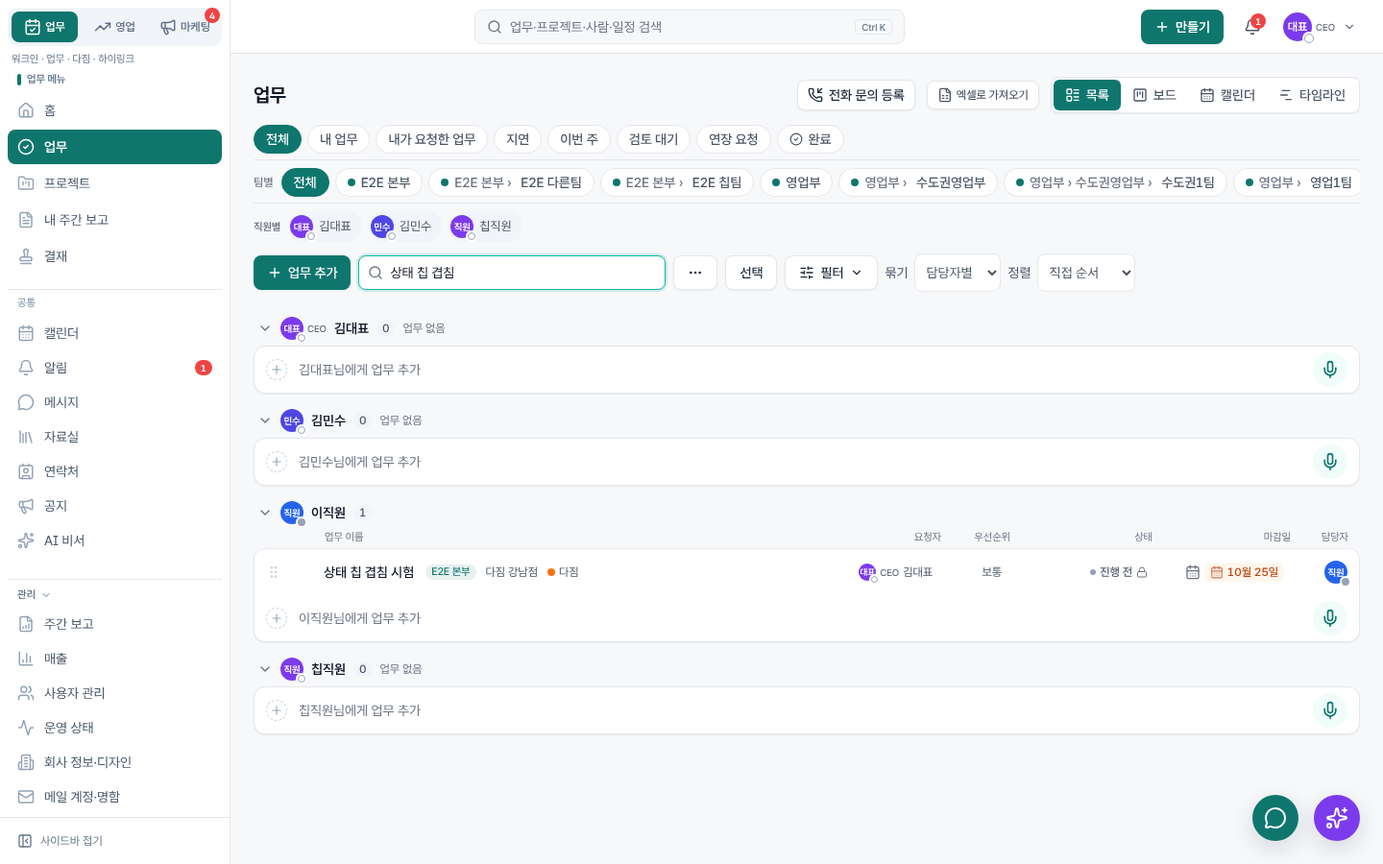
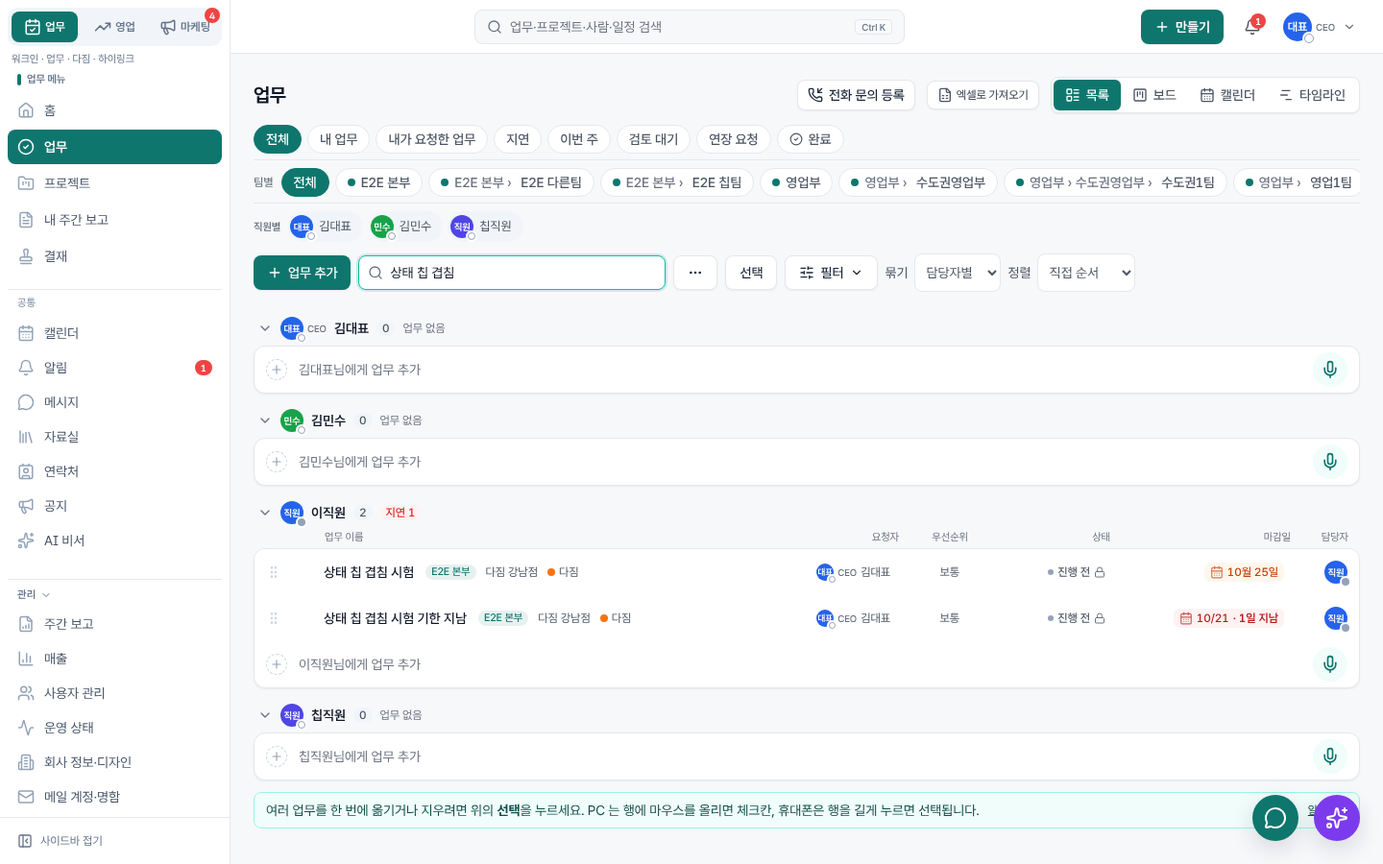
[배포확인요청] #422 앱 하단 탭 확정·더보기 → 프로필 버튼 + #427 기한 지남 줄 넘침 + 말풍선 기본 끔
- 업무 공간 하단 탭 = 홈·업무·캘린더·메시지·결재, '더보기' 탭 없음(영업·마케팅 4칸)
- 오른쪽 위 프로필 버튼 시트: 프로필·공간 전환·업무 메뉴(내 주간 보고만)·하단 탭과 겹치지 않는 메뉴·설정,
  '만들기' 줄 제거(업무 등록은 업무 화면 [업무 추가], 음성은 등록 시트 안 [음성])
- 기한 지난 줄 마감 칸 넘침: 달력 아이콘 중복 제거·짧은 날짜(10/21 · 1일 지남)·xl 이상 칸 폭 136/176,
  1024~1279 는 기존 폭('n일 지남' 글자만 숨김)
- 말풍선 버튼 기본 끔(하단 탭에 메시지, AI 버튼과 겹침)
- E2E 145/145(기한 지남 줄 1280·1440·1920 단언, 하단 탭·프로필 시트 단언)

Claude-Session: https://claude.ai/code/session_016D6QaBbBuSZXAeHKp3DqaZ

diff --git a/src/components/AppShell.tsx b/src/components/AppShell.tsx
@@ -17,12 +17,12 @@ import { usePathname, useRouter } from 'next/navigation';
 import { useEffect, useRef, useState, type ReactNode } from 'react';
 import {
   Activity, BarChart3, Bell, CalendarClock, CalendarHeart, FileBarChart, FileText, Gauge, CalendarDays, CalendarPlus, ChevronDown, CircleCheck, FolderKanban, FolderPlus, House, Keyboard, LayoutTemplate,
-  Building2, HelpCircle, ListTodo, Library, LogOut, Mic, Sparkles, Network, QrCode, Stamp, Workflow, PanelLeftClose, PanelLeftOpen, Plus, ScrollText, Search, Settings, SquarePen, Star, Users, X,
+  Building2, HelpCircle, ListTodo, Library, LogOut, Sparkles, Network, QrCode, Stamp, Workflow, PanelLeftClose, PanelLeftOpen, Plus, ScrollText, Search, Settings, SquarePen, Star, Users, X,
   type LucideIcon,
   MessageCircle, Mail,
   TrendingUp, Megaphone, ChevronsUpDown, Check, CalendarCheck, SlidersHorizontal as SlidersIcon, Phone, ClipboardCheck, Link2,
-  History, Rocket, Ellipsis, Target, Briefcase,
-MapPin, Contact, Globe, } from 'lucide-react';
+  History, Rocket, Target, Briefcase,
+Contact, Globe, } from 'lucide-react';
 import { SessionCtx, canManage, isAdminRole, type Sess } from './session';
 import { SPACE_META, spaceOfPath, type SpaceKey } from './spaceMeta';
 import { api, flushOutbox, useOutboxCount, broadcastRefresh, useApi } from './client';
@@ -31,7 +31,7 @@ import { ROLE_LABEL } from '@/lib/types';
 import { clearReminders, enableNativePush, initNative } from './native';
 import { QuickAddTask } from './QuickAddTask';
 import { CommandPalette } from './CommandPalette';
-import { VoiceAddTask, openVoiceAdd } from './VoiceAddTask';
+import { VoiceAddTask } from './VoiceAddTask';
 
 type NavItem = { href: string; label: string; icon: LucideIcon; group?: string };
 /** 워크인(WORKIN_V2) 사이드바: 홈 · 업무(본사 전체) · 프로젝트 · 캘린더 · 알림 + 관리 묶음. 숨긴 화면(현장 신고 QR·자동화·현장 비교 등)은 코드·주소는 남겨 둔다 */
@@ -220,7 +220,13 @@ export function AppShell({ session, children }: { session: Sess; children: React
       ? [{ href: '/s/marketing', label: '홈', icon: Megaphone }, { href: '/s/marketing/approvals', label: '승인 대기', icon: ClipboardCheck, badge: spaceInfo.data?.summary.marketing?.badge ?? 0 },
         { href: '/s/marketing/calendar', label: '캘린더', icon: CalendarDays }, { href: '/s/marketing/ads', label: '광고 성과', icon: BarChart3 }]
       // 대표 핫픽스 10/20 19:10(앱 캡처): 업무 공간 하단 = 홈 · 업무 · 캘린더 · 결재 · 더보기 — 프로젝트는 더보기 › 업무 메뉴로. 탭 구성 변경은 앞으로 대표 확인 뒤에만
-      : v3 ? [byHref('/'), byHref('/tasks'), byHref('/calendar'), { ...byHref('/approvals'), badge: approvalsTodo }] : [NAV[0], NAV[1], NAV[3], { ...NAV[4], badge: chatUnread }];
+      // 대표 확정 10/22(#422): 업무 공간 하단 = 홈 · 업무 · 캘린더 · 메시지 · 결재, 더보기 없음 — 나머지 메뉴는 오른쪽 위 프로필 버튼 시트로
+      : v3 ? [byHref('/'), byHref('/tasks'), byHref('/calendar'), { ...byHref('/messages'), badge: chatUnread }, { ...byHref('/approvals'), badge: approvalsTodo }] : [NAV[0], NAV[1], NAV[3], { ...NAV[4], badge: chatUnread }];
+  const tabHrefs = new Set(mobileTabs.map((n) => n.href.split('?')[0]));
+  // 프로필 시트: 하단 탭·머리줄(알림·AI)과 겹치는 메뉴는 빼고, 남은 공통 메뉴 + 설정만(#422 b·d)
+  const sheetLinks: NavItem[] = [...commonV3.filter((n) => !tabHrefs.has(n.href.split('?')[0]) && n.href !== '/notifications' && !n.href.startsWith('/assistant')), { href: '/settings', label: '설정·알림', icon: Settings }];
+  // #422 c: 업무 공간 메뉴 칸은 '내 주간 보고'(+ 매출 권한)만 — 홈·업무·결재는 하단 탭, 프로젝트는 업무 화면 안에서
+  const sheetSpaceMenu: NavItem[] = (v3 ? spaceMenuV3 : spaceNav).filter((n) => !tabHrefs.has(n.href.split('?')[0]) && !(space === 'work' && n.href === '/projects'));
   const active = (href: string) => {
     const [p, q] = href.split('?');
     if (p === '/') return path === '/';
@@ -423,7 +429,7 @@ export function AppShell({ session, children }: { session: Sess; children: React
                 <Link href="/notifications" className="relative inline-flex size-11 items-center justify-center rounded-full text-ink-2 active:bg-slate-100" aria-label={`알림${unread ? ` ${unread}건` : ''}`} data-testid="mobile-bell">
                   <Bell className="size-[22px]" />{unread > 0 && <span className="absolute right-1.5 top-1.5 min-w-4 rounded-full bg-red-500 px-1 text-center text-[10px] font-semibold leading-4 text-white">{unread > 99 ? '99+' : unread}</span>}
                 </Link>
-                <button onClick={() => setMore(true)} className="inline-flex size-11 items-center justify-center rounded-full active:bg-slate-100" aria-label="메뉴 더보기"><Avatar id={session.user.id} name={session.user.name} size={30} /></button>
+                <button onClick={() => setMore(true)} className="relative inline-flex size-11 items-center justify-center rounded-full active:bg-slate-100" aria-label="프로필·메뉴" data-testid="profile-menu"><Avatar id={session.user.id} name={session.user.name} size={30} /></button>
               </span>
             </div>
           </header>
@@ -476,12 +482,8 @@ export function AppShell({ session, children }: { session: Sess; children: React
         )}
         {/* 하단 탭 (모바일): 홈 · 업무 · [+] · 캘린더 · 메시지 (+ 정중앙) */}
         {/* 대표 결정(10/19): 가운데 + 버튼 없이 공간마다 같은 크기 5칸 — 4개 메뉴 + 더보기(그 공간 나머지 메뉴·공통·공간 전환·만들기) */}
-        <nav className="fixed bottom-0 left-0 right-0 z-40 grid grid-cols-5 border-t border-line bg-white/95 pb-[var(--sab)] backdrop-blur sm:hidden [[data-chat-room]_&]:hidden" aria-label="하단 메뉴" data-testid="mobile-tabs" data-space={tabSpace}>
+        <nav className={cx('fixed bottom-0 left-0 right-0 z-40 grid border-t border-line bg-white/95 pb-[var(--sab)] backdrop-blur sm:hidden [[data-chat-room]_&]:hidden', mobileTabs.length >= 5 ? 'grid-cols-5' : 'grid-cols-4')} aria-label="하단 메뉴" data-testid="mobile-tabs" data-space={tabSpace}>
           {mobileTabs.map((n) => <TabLink key={n.href} n={n} on={active(n.href)} badge={n.badge} />)}
-          <button type="button" onClick={() => setMore(true)} aria-label="더보기" data-testid="tab-more" className={cx('relative flex min-h-[52px] flex-col items-center justify-center gap-0.5 py-1.5 text-xs', more ? 'font-bold text-brand-700' : 'font-medium text-ink-2')}>
-            <Ellipsis className="size-6" strokeWidth={more ? 2.4 : 1.8} aria-hidden />더보기
-            {v3 && chatUnread + unread > 0 && <span className="absolute right-[18%] top-1 min-w-[18px] rounded-full bg-red-500 px-1 text-center text-[10px] font-bold leading-[18px] text-white" data-testid="tab-more-badge">{chatUnread + unread > 99 ? '99+' : chatUnread + unread}</span>}
-          </button>
         </nav>
         {/* 대표 10/20 16:20 (#106) 휴대폰 오른쪽 아래 말풍선 — 최근 대화방 바로·안 읽은 수·길게 누르면 AI 비서, 대화방·키보드·알람 띠에서 숨김 */}
         <ChatBubble unread={chatUnread} ai={!!session.features.ai} alarm={alarms.length > 0} />
@@ -515,23 +517,7 @@ export function AppShell({ session, children }: { session: Sess; children: React
                 <div className="min-w-0 flex-1"><div className="flex items-center gap-1.5 font-semibold">{session.user.name}<RoleBadge role={session.user.role} /></div><div className="truncate text-xs text-ink-2">{ROLE_LABEL[session.user.role]} · {session.user.email}</div></div>
                 <button onClick={() => setMore(false)} className="rounded-full p-2 text-ink-3" aria-label="닫기"><X className="size-5" /></button>
               </div>
-              {/* 대표 결정(10/19): + 버튼 대신 더보기 › 만들기(공간 맥락) */}
-              <div className="border-t border-line px-1 pb-1 pt-2" role="menu" aria-label="만들기" data-testid="more-create">
-                <div className="px-2 text-xs text-ink-3">만들기</div>
-                {/* 대표 지적(10/19): '미팅 일정 만들기'가 잘 안 보임 — 만들기 맨 위 */}
-                <Link href="/calendar?meeting=1" onClick={() => setMore(false)} role="menuitem" className="mt-1 flex min-h-[48px] items-center gap-2 rounded-xl border border-rose-200 bg-rose-50 px-3 text-sm font-semibold text-rose-800" data-testid="more-new-meeting"><MapPin className="size-5" />미팅 일정 만들기</Link>
-                {tabSpace === 'sales' ? (
-                  <Link href="/s/sales/leads?new=1" onClick={() => setMore(false)} role="menuitem" className="mt-1 flex min-h-[48px] items-center gap-2 rounded-xl bg-brand-600 px-3 text-sm font-semibold text-white" data-testid="more-new-lead"><Plus className="size-5" />새 리드</Link>
-                ) : tabSpace === 'marketing' ? (
-                  <Link href="/s/marketing/approvals?new=1" onClick={() => setMore(false)} role="menuitem" className="mt-1 flex min-h-[48px] items-center gap-2 rounded-xl bg-brand-600 px-3 text-sm font-semibold text-white" data-testid="more-new-content"><Plus className="size-5" />새 콘텐츠</Link>
-                ) : (
-                  <div className="mt-1 grid grid-cols-3 gap-1.5">
-                    <button role="menuitem" onClick={() => { setMore(false); openVoiceAdd(); }} aria-label="음성 등록" className="flex min-h-[64px] flex-col items-center justify-center gap-1 rounded-xl bg-brand-600 text-sm font-semibold text-white active:bg-brand-700" data-testid="fab-voice"><Mic className="size-5" />음성</button>
-                    <button role="menuitem" onClick={() => { setMore(false); setQuick(true); }} aria-label="업무 등록" className="flex min-h-[64px] flex-col items-center justify-center gap-1 rounded-xl border border-line text-sm font-semibold active:bg-slate-50"><SquarePen className="size-5 text-brand-600" />업무</button>
-                    <button role="menuitem" onClick={() => { setMore(false); router.push('/calendar?quick=1'); }} aria-label="일정 등록" className="flex min-h-[64px] flex-col items-center justify-center gap-1 rounded-xl border border-line text-sm font-semibold active:bg-slate-50"><CalendarPlus className="size-5 text-green-600" />일정</button>
-                  </div>
-                )}
-              </div>
+              {/* 대표 확정 10/22(#422 b): 하단 '더보기'를 없애고 이 시트는 오른쪽 위 프로필 버튼으로 연다 — '만들기' 줄은 뺌(업무 화면 [업무 추가]·캘린더·리드 화면에 있음, 음성은 업무 등록 창 안 [음성]) */}
               {spaces.length > 1 && (
                 <div className="space-y-1 border-t border-line px-1 pb-1 pt-2" data-testid="mobile-spaces">
                   <div className="px-2 text-xs text-ink-3">공간 전환</div>
@@ -546,22 +532,20 @@ export function AppShell({ session, children }: { session: Sess; children: React
                   ))}
                 </div>
               )}
-              {v3 && (
-                <div className="border-t border-line px-1 pb-1 pt-2" data-testid="mobile-common">
-                  <div className="px-2 text-xs text-ink-3">공통</div>
-                  <div className="mt-1 grid grid-cols-2 gap-1.5">{[...commonV3, { href: '/settings', label: '설정·알림', icon: Settings }].map((n) => { const b = n.href === '/notifications' ? unread : n.href === '/messages' ? chatUnread : 0; return (
-                    <Link key={n.href} href={n.href} onClick={() => setMore(false)} className="flex min-h-[44px] items-center gap-2 rounded-xl border border-line px-3 text-sm" style={active(n.href) ? { background: sm.soft, borderColor: sm.color } : undefined}>
-                      <n.icon className="size-4 shrink-0 text-ink-2" aria-hidden /><span className="truncate">{n.label}</span>{!!b && <span className="ml-auto rounded-full bg-red-500 px-1.5 text-[10px] font-semibold leading-4 text-white">{b}</span>}</Link>); })}</div>
-                </div>
-              )}
-              {(v3 || space !== 'work') && (
+              {sheetSpaceMenu.length > 0 && (
                 <div className="border-t border-line px-1 pb-1 pt-2" data-testid="mobile-space-menu">
                   <div className="px-2 text-xs text-ink-3">{sm.short} 메뉴</div>
-                  <div className="mt-1 grid grid-cols-2 gap-1.5">{(v3 ? spaceMenuV3 : spaceNav).map((n) => (
+                  <div className="mt-1 grid grid-cols-2 gap-1.5">{sheetSpaceMenu.map((n) => (
                     <Link key={n.href} href={n.href} onClick={() => setMore(false)} className="flex min-h-[44px] items-center gap-2 rounded-xl border border-line px-3 text-sm" style={active(n.href) ? { background: sm.soft, borderColor: sm.color } : undefined}>
                       <n.icon className="size-4 shrink-0" style={{ color: sm.color }} aria-hidden /><span className="truncate">{n.label}</span></Link>))}</div>
                 </div>
               )}
+              {/* #422 d: 하단 탭·머리줄(알림·AI 비서)과 겹치지 않는 공통 메뉴 + 설정 */}
+              <div className="border-t border-line px-1 pb-1 pt-2" data-testid="profile-links">
+                <div className="mt-1 grid grid-cols-2 gap-1.5">{sheetLinks.map((n) => { const b = n.href === '/messages' ? chatUnread : 0; return (
+                  <Link key={n.href} href={n.href} onClick={() => setMore(false)} className="flex min-h-[44px] items-center gap-2 rounded-xl border border-line px-3 text-sm" style={active(n.href) ? { background: sm.soft, borderColor: sm.color } : undefined}>
+                    <n.icon className="size-4 shrink-0 text-ink-2" aria-hidden /><span className="truncate">{n.label}</span>{!!b && <span className="ml-auto rounded-full bg-red-500 px-1.5 text-[10px] font-semibold leading-4 text-white">{b}</span>}</Link>); })}</div>
+              </div>
               <div className="my-1 border-t border-line" />
               {(v3 ? [['/help', '도움말·문의', HelpCircle], ...(session.features.googleSync ? [['/settings/google', 'Google Calendar 연동(선택)', CalendarDays]] : []),
                 ...(admin ? adminMenu.map((n) => [n.href, n.label, n.icon]) : nav.filter((n) => n.href === '/revenue').map((n) => [n.href, n.label, n.icon])), ...(session.user.platformAdmin ? [['/platform', '플랫폼 운영', Building2]] : [])] as [string, string, LucideIcon][]

diff --git a/src/components/TaskViews.tsx b/src/components/TaskViews.tsx
@@ -633,7 +633,7 @@ function DueEdit({ t, onPatch }: { t: Task; onPatch: (t: Task, b: any) => void }
   const change = (v: string | null) => (ex === 'request' && t.due_date && (!v || v > t.due_date) ? setExt(v) : onPatch(t, { dueDate: v }));
   // 로컬 검수 10/17(390폭): 마감 칩이 92px 보다 넓으면(시간 포함 등) 왼쪽으로 넘쳐 둘째 줄 칩을 덮음 → 휴대폰은 칩 폭 그대로·줄 흐름 안에서
   return (
-    <span className="inline-flex w-[132px] shrink-0 justify-end max-lg:w-auto" data-testid="due-cell">
+    <span className="inline-flex w-[132px] shrink-0 justify-end max-lg:w-auto xl:w-[176px]" data-testid="due-cell">
       <DuePicker value={t.due_date} status={t.status} onChange={change} label={`${t.title} 마감일`} onExtend={ex ? () => setExt(null) : undefined} extendLabel={ex === 'request' ? '마감 연장 요청' : '마감 연장'} />
       {ex && <ExtendDialog task={t} boss={ex === 'boss'} open={ext !== false} initial={ext || null} onClose={() => setExt(false)} />}
     </span>
@@ -667,7 +667,7 @@ function sortTasks(ts: Task[], k: SortKey) {
 /** PC 열 머리: 누르면 그 기준으로 정렬 */
 function ListHeader({ sortBy, onSort, compact, stuck }: { sortBy: SortKey; onSort: (k: SortKey) => void; compact?: boolean; stuck?: boolean }) {
   // V14 48: 맨 위 줄은 스크롤해도 붙어 있음(정렬 버튼). 로컬 검수 10/19: 모든 묶음이 같은 자리(묶음 이름 아래)에 열 제목 — 맨 위 줄은 스크롤해 묶음 제목이 가려질 때만 보임.
-  // 열 폭은 줄(TaskRow)과 같은 값: 요청자 104·우선순위 60·상태 136(오른쪽 정렬, #427)·마감일 132·담당 48
+  // 열 폭은 줄(TaskRow)과 같은 값: 요청자 104·우선순위 60·상태 112/xl 136(오른쪽 정렬, #427)·마감일 132/xl 176(기한 지남 표기, lg~xl 은 'n일 지남' 글자 숨김 #427)·담당 48
   const H = ({ k, children, className }: { k: SortKey; children: React.ReactNode; className?: string }) => (
     <button type="button" onClick={() => onSort(sortBy === k ? 'due' : k)} aria-pressed={sortBy === k}
       className={cx('truncate text-left hover:text-ink', sortBy === k ? 'font-semibold text-accent-600' : '', className)}>{children}{sortBy === k ? ' ↓' : ''}</button>
@@ -679,8 +679,8 @@ function ListHeader({ sortBy, onSort, compact, stuck }: { sortBy: SortKey; onSor
       <H k="title" className="flex-1">업무 이름</H>
       <H k="requester" className="hidden w-[104px] shrink-0 text-right xl:block">요청자</H>
       <H k="priority" className="w-[60px] shrink-0 text-right">우선순위</H>
-      <H k="status" className="w-[136px] shrink-0 text-right">상태</H>
-      <H k="due" className="w-[132px] shrink-0 text-right">마감일</H>
+      <H k="status" className="w-[112px] shrink-0 text-right xl:w-[136px]">상태</H>
+      <H k="due" className="w-[132px] shrink-0 text-right xl:w-[176px]">마감일</H>
       <H k="assignee" className="w-12 shrink-0 text-right">담당자</H>
     </div>
   );
@@ -1135,7 +1135,7 @@ function ListRow({ t, onPatch, onAck, handle, onMove, dragHint }: { t: Task; onP
         {onAck && <Button size="sm" variant="secondary" onClick={() => onAck(t)} aria-label={`${t.title} 확인`}>확인</Button>}
         <span className="hidden w-[104px] min-w-0 justify-end xl:flex" data-testid="requester-cell"><AssigneePicker role="요청자" value={t.requested_by} name={t.requested_by_name} size={18} withName onChange={(v) => v && onPatch(t, { requestedById: v })} /></span>
         <span className="hidden w-[60px] justify-end lg:flex"><PriorityPicker value={t.priority} label={`${t.title} 우선순위`} onChange={(v) => onPatch(t, { priority: v })} /></span>
-        <span className="hidden w-[136px] shrink-0 justify-end overflow-hidden lg:inline-flex" data-testid="status-cell"><StatusChip t={t} onPatch={onPatch} /></span>
+        <span className="hidden w-[112px] shrink-0 justify-end overflow-hidden lg:inline-flex xl:w-[136px]" data-testid="status-cell"><StatusChip t={t} onPatch={onPatch} /></span>
         <DueEdit t={t} onPatch={onPatch} />
         <span className="inline-flex shrink-0 lg:w-12 lg:justify-end"><AssigneePicker value={t.assignee_id} name={t.assignee_name} onChange={(v) => onPatch(t, { assigneeId: v })} /></span>
         {onMove && <OrderMenu title={t.title} onMove={(to) => onMove(t, to)} />}

diff --git a/src/components/TaskQuick.tsx b/src/components/TaskQuick.tsx
@@ -103,7 +103,7 @@ export function DuePicker({ value, onChange, status, label = '마감일', compac
       <button ref={ref} type="button" onClick={(e) => { e.stopPropagation(); setOpen(!open); }} onPointerDown={(e) => e.stopPropagation()} aria-label={label} aria-haspopup="dialog" aria-expanded={open} data-testid="due-picker"
         /* 대표 10/20 23:40: 날짜 버튼이 시각 칩보다 작음 → 최소 높이 32px(터치 40px), 달력 아이콘 + 날짜, 비어 있으면 테두리 버튼 */
         className={cx('hit inline-flex min-h-8 items-center rounded-input hover:bg-slate-100', !value && 'gap-1.5 border border-line bg-white text-sm text-ink-2', !value && (compact ? 'w-9 justify-center px-0' : 'px-2.5'), value && 'gap-1 px-1.5')}>
-        {value ? <span className="inline-flex items-center gap-1"><CalendarDays className="size-4 text-ink-3" /><DueChip due={value} status={status} />{time && <span className="text-xs font-medium text-ink-2 tabular-nums">{timeLabel(time)}</span>}</span> : <><CalendarDays className="size-4" />{compact ? '' : emptyText ?? '마감일'}</>}
+        {value ? <span className="inline-flex items-center gap-1">{/* 로컬 10/22(#427): 마감 칩에 달력 아이콘이 이미 있어 바깥 아이콘은 뺌(기한 지남 줄이 칸 밖으로 넘쳤다) */}<DueChip due={value} status={status} />{time && <span className="text-xs font-medium text-ink-2 tabular-nums">{timeLabel(time)}</span>}</span> : <><CalendarDays className="size-4" />{compact ? '' : emptyText ?? '마감일'}</>}
       </button>
       <Popover open={open} onClose={() => setOpen(false)} anchor={ref} title={label} width={onTime ? 300 : 260}>
         {/* V32 4: 마감 연장(담당자 = 요청자에게 요청, 요청자 = 바로) — 목록에서도 상세에 들어가지 않고 */}

diff --git a/src/components/ChatBubble.tsx b/src/components/ChatBubble.tsx
@@ -5,9 +5,9 @@ import { MessageCircle, Sparkles } from 'lucide-react';
 import { api } from '@/components/client';
 import { cx } from '@/components/ui';
 
-const KEY = 'wos_chat_bubble'; // '0' = 이 기기에서 끔(설정 › 말풍선 버튼)
+const KEY = 'wos_chat_bubble'; // '1' = 이 기기에서 켬(설정 › 말풍선 버튼). 대표 10/22(#422): 하단 탭에 '메시지'가 생겨 기본 끔(AI 버튼과 겹쳤음)
 const LONG_PRESS = 500;
-export const chatBubbleOn = () => { try { return localStorage.getItem(KEY) !== '0'; } catch { return true; } };
+export const chatBubbleOn = () => { try { return localStorage.getItem(KEY) === '1'; } catch { return false; } };
 export const setChatBubbleOn = (on: boolean) => { try { localStorage.setItem(KEY, on ? '1' : '0'); } catch { /* 무시 */ } window.dispatchEvent(new Event('wos-chat-bubble')); };
 
 /**
@@ -17,7 +17,7 @@ export const setChatBubbleOn = (on: boolean) => { try { localStorage.setItem(KEY
 export function ChatBubble({ unread, ai, alarm }: { unread: number; ai: boolean; alarm: boolean }) {
   const router = useRouter();
   const path = usePathname();
-  const [on, setOn] = useState(true);
+  const [on, setOn] = useState(false);
   const [kb, setKb] = useState(false);
   const [busy, setBusy] = useState(false);
   const timer = useRef<ReturnType<typeof setTimeout> | null>(null);
@@ -60,7 +60,7 @@ export function ChatBubble({ unread, ai, alarm }: { unread: number; ai: boolean;
 
 /** 설정 › 말풍선 버튼 (휴대폰, 이 기기) */
 export function ChatBubbleToggle() {
-  const [on, setOn] = useState(true);
+  const [on, setOn] = useState(false);
   useEffect(() => { setOn(chatBubbleOn()); }, []);
   return (
     <label className="flex items-start gap-3 text-sm">

diff --git a/src/components/ui.tsx b/src/components/ui.tsx
@@ -274,11 +274,13 @@ export function DueChip({ due, status, time, className }: { due: string | null |
   const days = Math.round((Date.parse(due) - Date.parse(t)) / 86400000);
   const done = status === 'done';
   const tone = done ? 'text-slate-400' : days < 0 ? 'bg-red-50 text-red-700' : days === 0 ? 'bg-blue-50 text-blue-700' : days <= 3 ? 'bg-orange-50 text-orange-700' : 'text-ink-2';
-  const label = days === 0 ? '오늘' : days === 1 ? '내일' : fmtShort(due);
+  // 로컬 10/22(#427): 기한 지남은 '· n일 지남'이 붙어 길어지므로 날짜를 숫자(10/21)로 짧게
+  const [, mm, dd] = due.split('-').map(Number);
+  const label = days === 0 ? '오늘' : days === 1 ? '내일' : !done && days < 0 && Number(due.slice(0, 4)) === new Date().getFullYear() ? `${mm}/${dd}` : fmtShort(due);
   return (
     <span className={clsx('inline-flex items-center gap-1 whitespace-nowrap rounded-md px-1.5 py-0.5 text-xs font-medium tabular-nums', tone, className)}
       title={`마감 ${fmtDate(due)}${!done && days < 0 ? ` · ${-days}일 지남` : ''}`}>
-      <CalendarDays className="size-3.5 opacity-70" aria-hidden />{label}{time ? ` ${time.slice(0, 5)}` : ''}{!done && days < 0 && <span className="font-semibold"> · {-days}일 지남</span>}
+      <CalendarDays className="size-3.5 opacity-70" aria-hidden />{label}{time ? ` ${time.slice(0, 5)}` : ''}{!done && days < 0 && <span className="font-semibold lg:max-xl:hidden"> · {-days}일 지남</span>}
     </span>
   );
 }

diff --git a/docs/handoff/LOCAL_LOG.md b/docs/handoff/LOCAL_LOG.md
@@ -525,6 +525,7 @@
 - 2026-10-20 [클라우드] [배포확인요청] 마감일 버튼 핫픽스(#122 대표 23:40) + 업무 첨부 [자료실에서 가져오기](#123 대표 23:55, migration 137): 마감일 버튼 높이 32px·달력 아이콘, 선택 창 날짜(넓게)/시각(좁게) 한 줄 두 칸 40px · 업무 상세 자료·첨부 [자료실에서](검색·폴더·공간·여러 개 체크 → 연결, 출처 '자료실', 타임라인 '자료실에서') · 새 업무 폼 '📁 자료실에서 첨부' · 운영실 E2E 예산 ≠ 0원. 대표 화면: 업무 열기 → [자료실에서] → 파일 체크 → [첨부].
 - 2026-10-20 [클라우드] [배포확인요청] 주 도메인 work-in.dev(#117): 앱 appUrl 기본 apex + allowNavigation 두 호스트(다음 앱 빌드부터), 사이트 canonical·OG·sitemap·robots 기본 apex(NEXT_PUBLIC_SITE_URL 우선), 쿠키 호스트 전용·출처 검사·푸시는 두 호스트 모두 정상(NEXT_ACTION 에 근거). APP_URL 은 외부 콘솔 콜백 호스트와 같아야 하니 콘솔 변경 뒤 apex 로. 308 은 새 앱 빌드 배포 뒤 Vercel 에서. + 운영실 예산 [AI 다시 계획] 버튼을 승인 대기 상태에서도 노출(로컬 00:10) — 눌러서 금액 > 0 확인 부탁.
 - 2026-10-20 [클라우드] [배포확인요청] 로고 S3 전체 적용(#124: public 아이콘·favicon.ico·manifest maskable·OG·JSON-LD·PWA 스플래시·푸시 배지·랜딩 헤더/푸터 록업·로그인 다크 록업) + 히어로 배경 콜라주(#119) + Higgsfield USD 단가·표시 단위(#120). 운영 확인: 파비콘·OG(카톡 미리보기)·랜딩·로그인. 메일 서명·명함은 회사 로고만 써서 워크인 로고 없음(교체 대상 아님). 모션 mp4 는 팩에 추가되면 로그인/스플래시에 넣겠습니다.
+- 2026-10-22 [클라우드] [배포확인요청] #422 하단 탭(대표 확정) + #427 기한 지남 줄 넘침 + 말풍선 기본 끔: ① 업무 공간 하단 = 홈·업무·캘린더·메시지(안 읽은 수)·결재(결재할 것), '더보기' 탭 없음(영업·마케팅은 4칸 같은 폭). 오른쪽 위 프로필 버튼(testid profile-menu) 시트 = 프로필·공간 전환·'업무 메뉴'(내 주간 보고만, 매출 권한이면 매출)·하단 탭/머리줄과 안 겹치는 메뉴(자료실·연락처·공지·설정·알림) + 도움말·관리 메뉴. '만들기' 줄 제거 — 휴대폰 업무 등록은 업무 화면 [업무 추가](등록 시트, 안에 [음성]). ② 기한 지난 줄: 마감 칸 안 달력 아이콘 중복 제거 + 기한 지남 날짜 짧게(10/21 · 1일 지남), 칸 폭 xl 이상 상태 136·마감 176(1024~1279 는 112·132 그대로, 'n일 지남' 글자만 숨김·빨간 날짜·툴팁 유지 — 1024 업무 이름 칸 200px 유지). E2E 에 기한 지남 줄 1280·1440·1920 단언 추가. ③ 말풍선(#106) 기본 끔(설정 › 말풍선 버튼으로 켬) — 하단 탭에 메시지가 생겨 AI 버튼과 겹침 방지. E2E 145/145. 확인: 앱 하단 탭·프로필 시트, PC 기한 지난 줄.
 - 2026-10-22 [클라우드] [배포확인요청] #427 PC 업무 목록 상태 칩 겹침: 상태 칸 112 → 136px·머리·줄 모두 오른쪽 정렬, '· 확인 전' 글자는 PC 2xl(1536) 이상에서만(그 아래는 빨간 점 + 툴팁, 휴대폰 둘째 줄은 그대로). E2E 새 단계: 1280·1440·1920 에서 상태 칩 오른쪽 끝 ≤ 마감일 칸 시작·오른쪽 정렬 단언, 스크린샷 docs/screens/191-status-chip-1440.png. E2E 145/145. 확인: PC 폭별로 담당자별 묶기 목록.
 - 2026-10-22 [클라우드] [배포확인요청] 김민수 '3명에게 각각 만들기' → 1건만: 로컬 진단 그대로 — 팀 소속이면 만들기 창이 열릴 때 '내 팀' 태그(teamId, teamMode tag)가 붙고, 여러 명 조건이 `!f.teamId` 라 assigneeIds 가 빠져 주 담당 1건만 생성 + 토스트는 선택 인원 수로 거짓 표시. 수정: 여러 명 선택이면(함께·팀원 전체 각각 제외) 팀은 태그로만 두고 고른 사람 모두 assigneeIds 로 보냄, 토스트는 실제 만든 건수, 서버도 여러 명 + 팀장 배정 모드면 태그로 바꿔 각각 생성. 시험: 팀 소속 직원이 본인·대표 포함 3명 → 3건·팀 태그 유지(teams-hierarchy), 알람 E2E 에 띠 [10분 뒤] → 사라짐·새로고침해도 10분 없음·지나면 다시 뜸 단언 추가. API 591/591 · E2E 144/144. 확인: 김민수 계정으로 3명 각각 만들기 → 3건.
 - 2026-10-22 [클라우드] [배포확인요청] 대표 재요청 '알람 [10분 뒤] 눌러도 계속 떠 있음'(063a9d3 배포 뒤): 같은 업무 알람이 둘 — 기기 예약 알림(알림창 고정 ongoing)과 앱 안 빨간 띠(서버 알림) — 이고 서로 몰랐다. ① 휴대폰 알림 [10분 뒤]/[해제] → POST /api/reminders/alarm 이 같은 업무·일정의 띠 알림도 10분 숨김/해제 처리(전에는 기록만). ② 띠 [10분 뒤]/[해제] → 이미 울려 고정된 기기 알림(예약 id 기억 wos_alarm_ids)·서버 푸시 알림(tag=알림 id)을 지우고, 10분 뒤면 기기에 다시 예약. ③ FCM 알림 지우기에 tag 를 빠뜨려 안 지워지던 것 수정. 실기기 확인: 중요 업무 알람 → 휴대폰 알림 [10분 뒤] → 알림창·띠 둘 다 사라짐 → 10분 뒤 다시 / 띠 [10분 뒤] → 알림창 고정 알림도 사라짐.
